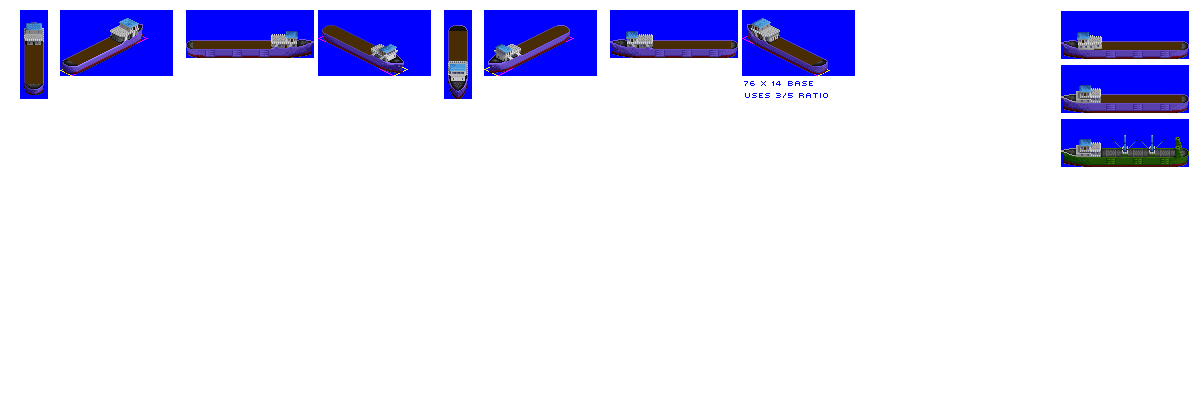
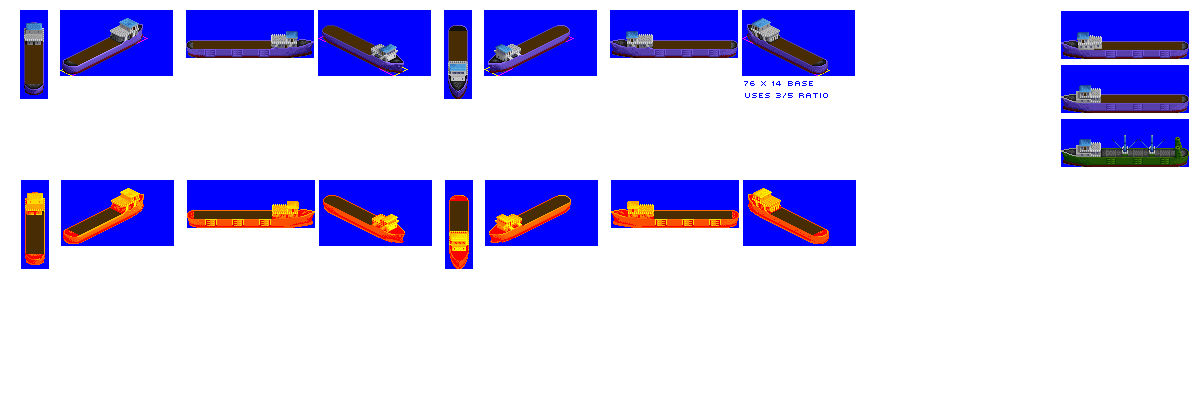
Change: WIP on large reefer and large piece goods carrier sprites

Changed region(s): [[0.0, 0.4024, 0.74, 0.65]]

diff --git a/src/graphics_processor/gestalt_graphics.py b/src/graphics_processor/gestalt_graphics.py
@@ -100,6 +100,8 @@ class GestaltGraphicsLiveryOnly(GestaltGraphics):
         # these bools might be better done as a 'type' property, they only seem to be used for selecting recolour maps?
         self.tanker = False
         self.edibles_tanker = False
+        self.reefer = False
+        self.piece_goods_carrier = False
         # self.container = False # !! add support for containers here when needed
 
     @property
@@ -130,12 +132,15 @@ class GestaltGraphicsLiveryOnly(GestaltGraphics):
     @property
     def recolour_maps(self):
         # !! needs extending for alternative types, e.g. tankers, etc
+        # !! should just check a 'subtype' string as a dict key, not silly bool vars
         if self.tanker:
             return graphics_constants.tanker_livery_recolour_maps
         if self.edibles_tanker:
             return graphics_constants.edibles_tanker_livery_recolour_maps
         if self.reefer:
             return graphics_constants.reefer_livery_recolour_maps
+        if self.piece_goods_carrier:
+            return graphics_constants.piece_goods_carrier_livery_recolour_maps
         else:
             return {}
 

diff --git a/src/graphics_processor/graphics_constants.py b/src/graphics_processor/graphics_constants.py
@@ -56,6 +56,9 @@ reefer_livery_recolour_maps = (# see note on DFLT above
                                       ("DFLT", {136: 5, 137: 7, 138: 8, 139: 9,
                                                 140: 10, 141: 11, 142: 12, 143: 13,
                                                 60: 1, 72: 3, 123: 4, 74: 5, 75: 4}),)
+# Piece goods carrier, only DFLT is used as of Jan 2018
+piece_goods_carrier_livery_recolour_maps = (# see note on DFLT above
+                                      ("DFLT", hull_recolour_CC2),)
 # Containers
 # !! simple recolouring, not cargo specific.  May need work ??  Could be cargo-specific??
 container_recolour_maps = ({170 + i: CC1 + i for i in range(8)},

diff --git a/src/ship.py b/src/ship.py
@@ -445,7 +445,7 @@ class PieceGoodsCarrier(Ship):
         self.default_cargo = 'GOOD'
         # Graphics configuration
         self.gestalt_graphics = GestaltGraphicsLiveryOnly()
-        self.gestalt_graphics.reefer = True
+        self.gestalt_graphics.piece_goods_carrier = True
 
 
 class Reefer(Ship):
